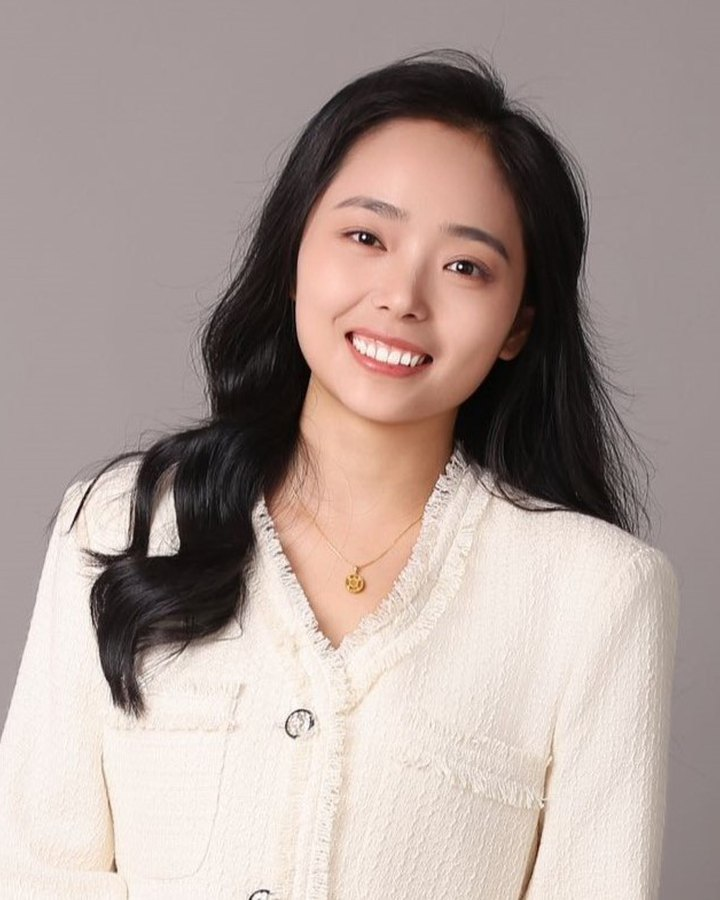
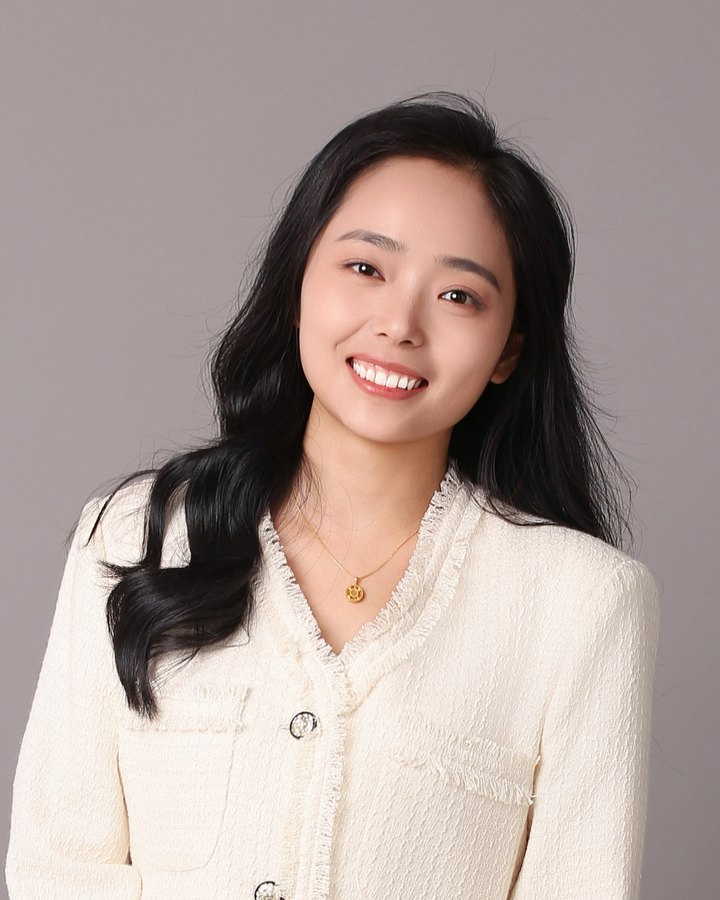
New headshot, JMP abstract, publications synced to CV, teaching before field notes

diff --git a/index.html b/index.html
@@ -122,8 +122,8 @@ footer { color: var(--muted); font-size: 0.85rem; border-top: 1px solid var(--li
       <ul>
         <li><a href="#about">About</a></li>
         <li><a href="#research">Research</a></li>
-        <li><a href="#fieldnotes">Field notes</a></li>
         <li><a href="#teaching">Teaching</a></li>
+        <li><a href="#fieldnotes">Field notes</a></li>
         <li><a href="#cv">CV</a></li>
         <li><a href="#contact">Contact</a></li>
       </ul>
@@ -145,39 +145,46 @@ footer { color: var(--muted); font-size: 0.85rem; border-top: 1px solid var(--li
     <section id="research">
       <p class="eyebrow">Research</p>
       <h2>Identity, violence, and accountability in Africa</h2>
-      <div class="strands">
-        <div class="strand"><h3>Identity and gender in ethnic politics</h3><p>How patriarchal rules of ethnic membership shape coethnic voting and disadvantage women candidates, and how identity and eligibility shape demand for programmatic goods.</p></div>
-        <div class="strand"><h3>Political violence and accountability</h3><p>How exposure to terrorism and shared identity with victims shape whom citizens blame, how much they trust democratic institutions, and how religious they become.</p></div>
-        <div class="strand"><h3>Political economy of development</h3><p>How Africans evaluate foreign-funded projects and the major powers behind them, comparing Chinese and American engagement in Nigeria.</p></div>
-        <div class="strand"><h3>Experimental and computational methods</h3><p>Optimal block designs for vignette and conjoint experiments, and large language models and text analysis applied to African political speech and media.</p></div>
-      </div>
+      <p class="prepared">Fields: identity politics, intersectionality, political economy of development, sub-Saharan Africa.</p>
 
       <h3>Job market paper</h3>
       <div class="jmp">
         <div class="t">Whose Ethnicity Counts? Gender, Patriarchy, and Coethnic Voting in Nigeria</div>
-        <p>Voters across Africa favor coethnic candidates, yet ethnic membership itself is structurally patriarchal: fathers and husbands anchor who counts as a coethnic. In conjoint experiments in Lagos, paternal ethnic ties earn far larger electoral returns than maternal ties, regardless of candidate gender. Male candidates who marry outside their group keep their coethnic support and gain support from their wives' communities, while female candidates lose support from their communities of origin without gaining their husbands'. The penalty holds even among female voters who otherwise favor women candidates, so patriarchal rules of ethnic ascription become a distinct electoral disadvantage for women.</p>
+        <p>Decades of research in comparative political behavior show that voters favor coethnic candidates, yet we know little about women's place in ethnic politics. I argue that female candidates face distinct disadvantages in political arenas where ethnic identity is politically salient yet ethnic ascription is structurally patriarchal. Where patrilineal conventions establish men as the primary anchors of ethnic membership, women's ethnic ties carry less weight in establishing coethnic status, leaving them with less ethnic capital to draw upon for electoral support. I examine these dynamics across two crucial dimensions of ethnic ascription: lineage and marriage. Drawing on two conjoint experiments and qualitative fieldwork in Lagos, Nigeria, I show that paternal ethnic ties confer substantially greater electoral returns than maternal ones, regardless of candidate gender. In marriage, male candidates retain coethnic support when marrying outside their group and even gain support from their wives' communities. Female candidates, however, lose support from their ethnic communities of origin without gaining equivalent support from their husbands' communities. Crucially, this penalty holds even among female voters who otherwise favor female candidates. These findings highlight how patriarchal rules of ethnic ascription translate into distinct electoral disadvantages for women.</p>
         <div class="links"><a class="fn-link" href="#note-team">Field note: the team behind the survey</a></div>
       </div>
 
-      <h3>Publications</h3>
+      <h3>Peer-reviewed publications</h3>
       <ul class="pubs">
-        <li><div class="t">The US Inspires Dreams and China Gets Things Done: Gauging Global South Attachments to Major Powers with Evidence from Nigeria</div><div class="m">with John McCauley. <span class="status">Accepted, Peace &amp; Democracy</span> <a href="https://peace-democracy.org/board/bbs/board.php?bo_table=journal_main&amp;wr_id=26">Link</a> <a class="fn-link" href="#note-train">Field note</a></div></li>
-        <li><div class="t">High-Severity Environmental Alarms as Corrective Signals: Evidence from Beijing's First Red Haze Alerts</div><div class="m">with Wei Wang, Weisheng Zhang, and Xinran Fan. <span class="status">Accepted, Air Quality, Atmosphere &amp; Health</span></div></li>
+        <li><div class="t"><a href="https://peace-democracy.org/board/bbs/board.php?bo_table=journal_main&amp;wr_id=26">The US Inspires Dreams and China Gets Things Done: Gauging Global South Attachments to Major Powers with Evidence from Nigeria</a></div><div class="m">with John McCauley. <span class="status">Forthcoming, Peace &amp; Democracy</span> <a class="fn-link" href="#note-train">Field note</a></div></li>
       </ul>
 
       <h3>Under review</h3>
       <ul class="pubs">
-        <li><div class="t">Victim Identity and Political Blame: Evidence from Nigeria</div><div class="m">Solo-authored. <span class="status">Under review</span></div><div class="note">Factorial vignette experiments in Lagos and Maiduguri show that citizens blame politicians more when victims share their religion, and that this bias disappears where violence is perceived as indiscriminate.</div></li>
         <li><div class="t">The Democratic Costs of Terrorist Attacks in Africa</div><div class="m">with John McCauley and Trey Billing. <span class="status">Revise &amp; resubmit, Journal of Conflict Resolution</span></div><div class="note">Geocoded attacks linked to Afrobarometer surveys: attacks depress satisfaction with democracy and trust in the president within months, and non-fatal attacks do so as much as fatal ones.</div></li>
         <li><div class="t">Project Characteristics and Preferences over Foreign-Funded Initiatives: Evidence from Nigeria</div><div class="m">with John McCauley. <span class="status">Revise &amp; resubmit, Studies in Comparative International Development</span> <a class="fn-link" href="#note-train">Field note</a></div></li>
+        <li><div class="t">Victim Identity and Political Blame: Evidence from Nigeria</div><div class="m">Solo-authored. <span class="status">Under review</span></div><div class="note">Factorial vignette experiments in Lagos and Maiduguri show that citizens blame politicians more when victims share their religion, and that this bias disappears where violence is perceived as indiscriminate.</div></li>
+        <li><div class="t">Do Road Networks Mitigate or Amplify the Spatial Heterogeneity of Urban Public Goods?</div><div class="m">Mushixue Zhang, Ge Shi, Jiantao Shi, Xiuling Zhang, Wei Wang, Lihang Feng, and Chuang Chen. <span class="status">Revise &amp; resubmit, Symmetry</span></div></li>
+        <li><div class="t">Spatiotemporal Evolution and Nonlinear Factors Influencing Carbon Emissions in Nigeria</div><div class="m">Ge Shi, Yueming Zeng, Jiantao Shi, Boyuan Lu, Xiuling Zhang, Lin Sun, and Wei Wang. <span class="status">Revise &amp; resubmit, ISPRS International Journal of Geo-Information</span></div></li>
       </ul>
 
-      <h3>Working papers</h3>
+      <h3>Work in progress</h3>
       <ul class="pubs">
-        <li><div class="t">Terrorist Attacks and the Religiosity of Survivors</div><div class="m">with John McCauley and Trey Billing</div></li>
+        <li><div class="t">Terrorist Attacks and the Religiosity of Survivors</div><div class="m">with John McCauley and Trey Billing. Draft available upon request.</div></li>
         <li><div class="t">Eligibility, Identity, and Preferences for Programmatic Goods in Nigeria</div><div class="m">Solo-authored. <a class="fn-link" href="#note-lagos">Field note</a></div></li>
-        <li><div class="t">Optimal Block Design for Vignette and Conjoint Experiment in Political Science</div><div class="m">with Peter Steiner</div></li>
+        <li><div class="t">Optimal Block Design for Vignette and Conjoint Experiments in Political Science</div><div class="m">with Peter Steiner</div></li>
       </ul>
+    </section>
+
+    <section id="teaching">
+      <p class="eyebrow">Teaching</p>
+      <h2>Courses at the University of Maryland</h2>
+      <dl class="courses">
+        <div><dt>GVPT 484</dt><dd><strong>Government and Politics of Africa</strong>, instructor of record, Fall 2025</dd></div>
+        <div><dt>GVPT 354</dt><dd><strong>International Development and Conflict Management</strong>, instructor of record, Summer 2025 and Summer 2026. Students map a live conflict and write a mock development proposal to a funder.</dd></div>
+        <div><dt>GVPT 203</dt><dd><strong>The Challenge of Authoritarianism</strong>, teaching assistant, Spring 2026</dd></div>
+      </dl>
+      <p class="prepared">Prepared to teach: Introduction to Comparative Politics; Politics of Africa; Political Violence and Its Aftermath; Politics of Development and Foreign Aid; Identity, Ethnicity, and Gender in Politics; Experimental Design for Social Science; Text Analysis and Large Language Models for Social Science.</p>
     </section>
 
     <section id="fieldnotes">
@@ -229,17 +236,6 @@ footer { color: var(--muted); font-size: 0.85rem; border-top: 1px solid var(--li
         <p>Our respondents say both, in different registers. The United States inspires aspirations; China is credited with getting things done. The paper on project characteristics follows up by asking which features of a foreign-funded project, from who builds it to who benefits, move Nigerians' support, independently of the flag on the sign.</p>
         <p class="back"><a href="#research">Back to the research</a></p>
       </article>
-    </section>
-
-    <section id="teaching">
-      <p class="eyebrow">Teaching</p>
-      <h2>Courses at the University of Maryland</h2>
-      <dl class="courses">
-        <div><dt>GVPT 484</dt><dd><strong>Government and Politics of Africa</strong>, instructor of record, Fall 2025</dd></div>
-        <div><dt>GVPT 354</dt><dd><strong>International Development and Conflict Management</strong>, instructor of record, Summer 2025 and Summer 2026. Students map a live conflict and write a mock development proposal to a funder.</dd></div>
-        <div><dt>GVPT 203</dt><dd><strong>The Challenge of Authoritarianism</strong>, teaching assistant, Spring 2026</dd></div>
-      </dl>
-      <p class="prepared">Prepared to teach: Introduction to Comparative Politics; Politics of Africa; Political Violence and Its Aftermath; Politics of Development and Foreign Aid; Identity, Ethnicity, and Gender in Politics; Experimental Design for Social Science; Text Analysis and Large Language Models for Social Science.</p>
     </section>
 
     <section id="cv">
